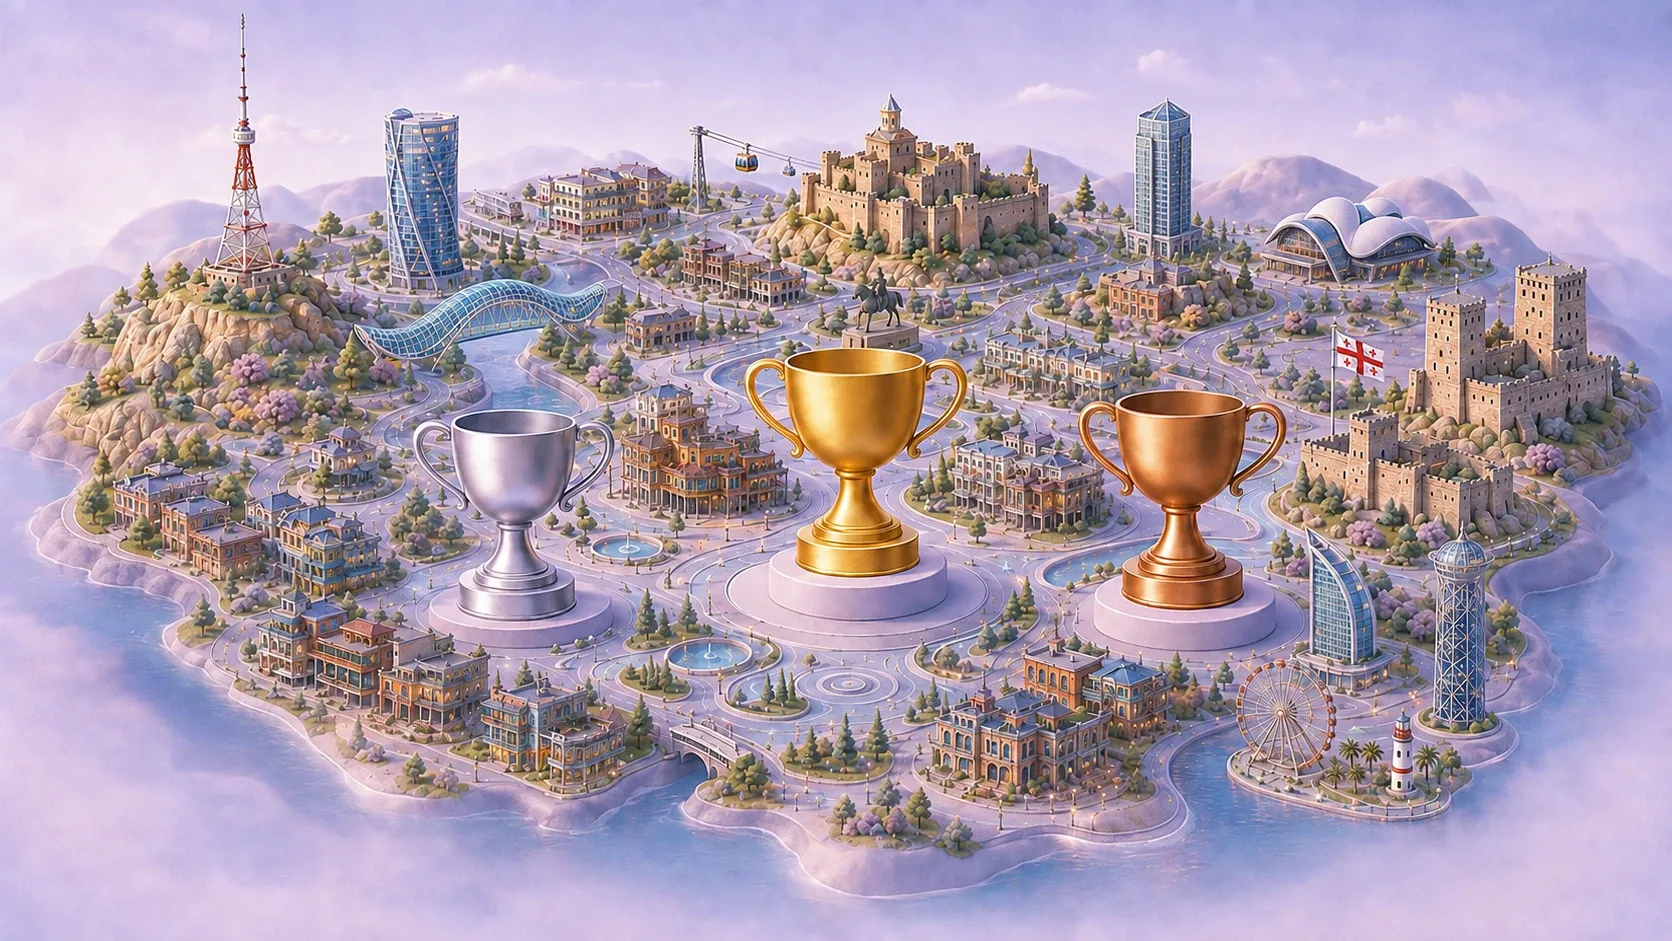
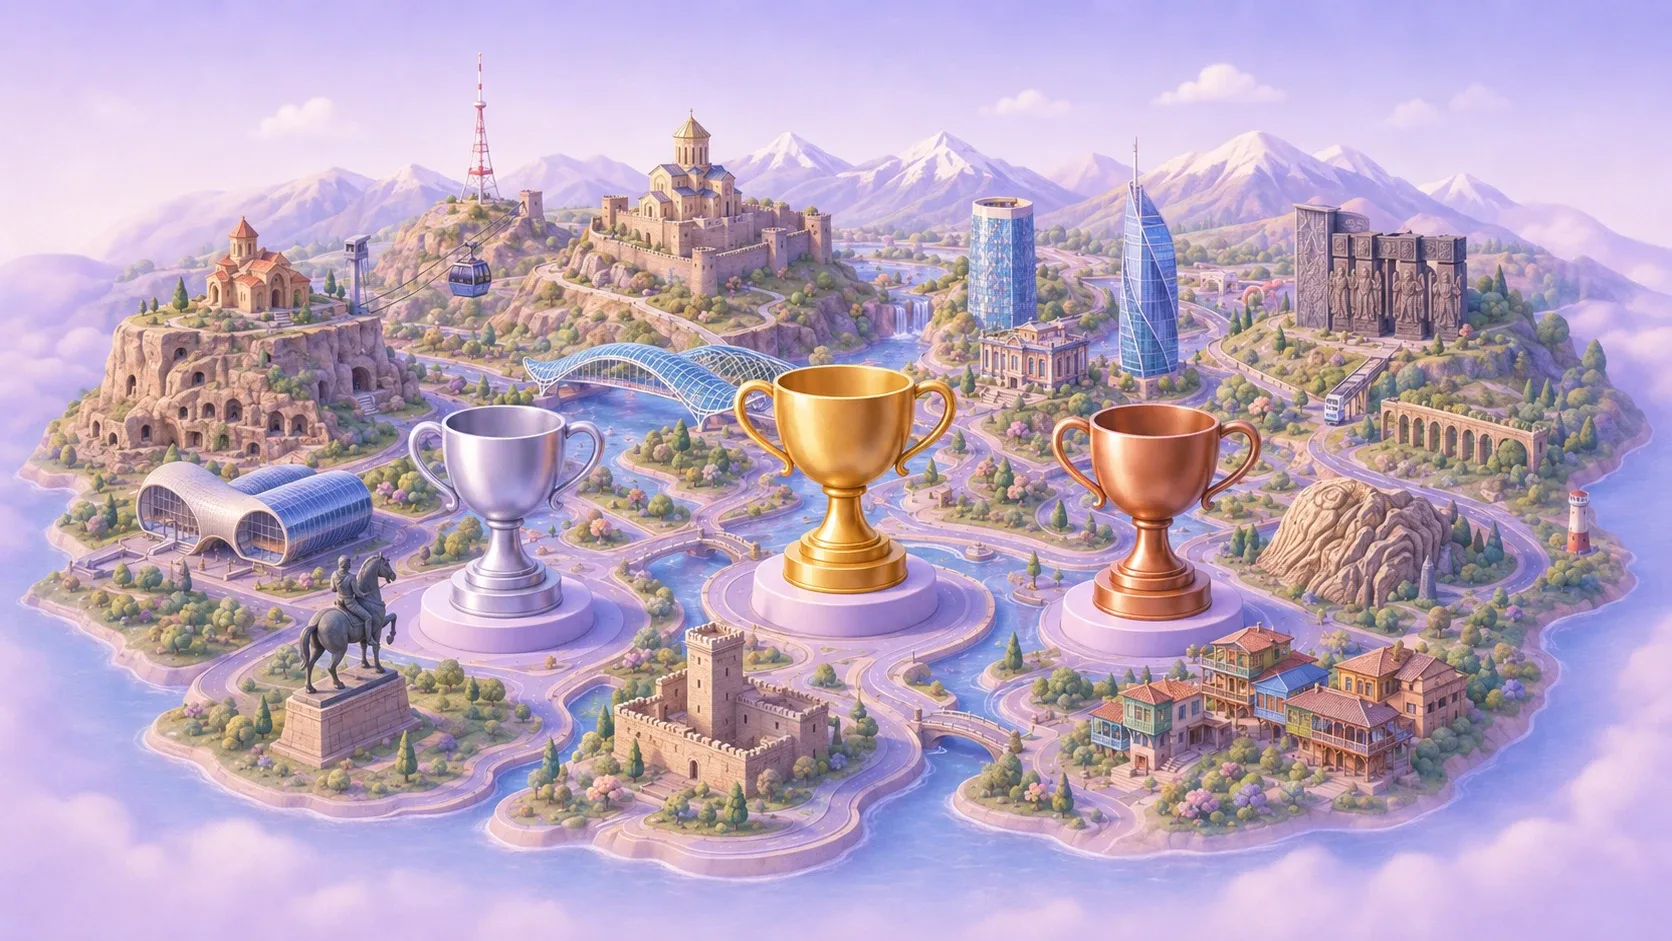
Leaderboards: matching pastel map artworks for both tabs, slower blur crossfade
Swap in the new matching-style isometric maps: world landmarks for the
global tab and Georgian landmarks for the local tab (both recompressed
to ~230KB). Slow the tab-switch blur crossfade from 400ms to 800ms so
the blur-out/blur-in is actually perceptible.

Claude-Session: https://claude.ai/code/session_01JwhbLzizqTddxSbXgj88QZ

diff --git a/src/pages/Leaderboards.tsx b/src/pages/Leaderboards.tsx
@@ -348,13 +348,13 @@ export default function Leaderboards() {
         <img
           src={bgLeaderGeorgia}
           alt=""
-          className={`absolute inset-0 w-full h-full object-cover object-[center_30%] md:top-auto md:h-auto md:aspect-video md:object-[center_bottom] md:[mask-image:linear-gradient(to_bottom,transparent_0,black_200px)] pointer-events-none select-none transition-[opacity,filter] duration-[400ms] ease-out ${scope === "global" ? "opacity-0 blur-md" : "opacity-100 blur-0"}`}
+          className={`absolute inset-0 w-full h-full object-cover object-[center_30%] md:top-auto md:h-auto md:aspect-video md:object-[center_bottom] md:[mask-image:linear-gradient(to_bottom,transparent_0,black_200px)] pointer-events-none select-none transition-[opacity,filter] duration-[800ms] ease-out ${scope === "global" ? "opacity-0 blur-md" : "opacity-100 blur-0"}`}
           draggable={false}
         />
         <img
           src={bgLeaderGlobal}
           alt=""
-          className={`absolute inset-0 w-full h-full object-cover object-[center_30%] md:top-auto md:h-auto md:aspect-video md:object-[center_bottom] md:[mask-image:linear-gradient(to_bottom,transparent_0,black_200px)] pointer-events-none select-none transition-[opacity,filter] duration-[400ms] ease-out ${scope === "global" ? "opacity-100 blur-0" : "opacity-0 blur-md"}`}
+          className={`absolute inset-0 w-full h-full object-cover object-[center_30%] md:top-auto md:h-auto md:aspect-video md:object-[center_bottom] md:[mask-image:linear-gradient(to_bottom,transparent_0,black_200px)] pointer-events-none select-none transition-[opacity,filter] duration-[800ms] ease-out ${scope === "global" ? "opacity-100 blur-0" : "opacity-0 blur-md"}`}
           draggable={false}
         />
 
